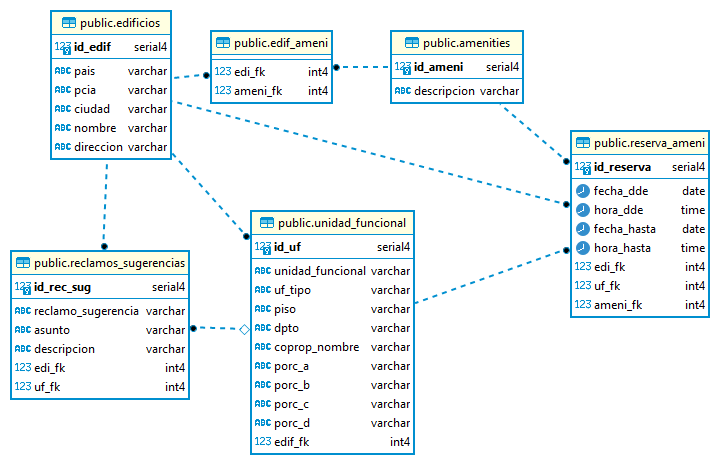
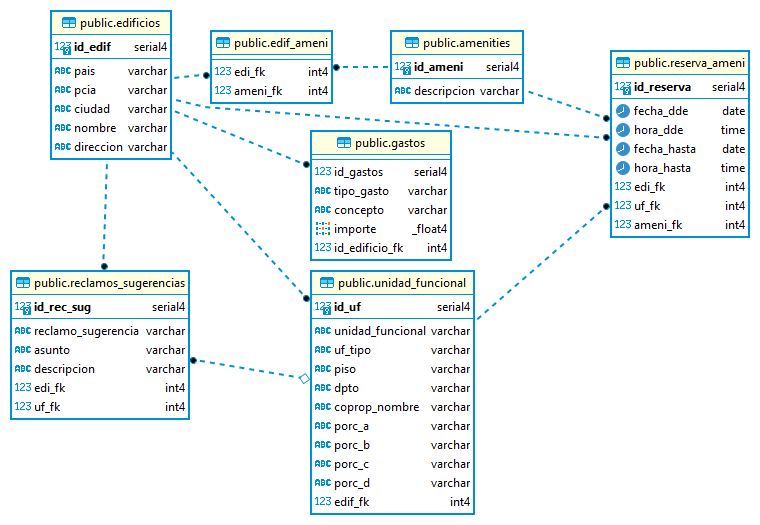
Se Agrego la tabla gastos

diff --git a/Documentos_Develop/DBs/models_tentativo.py b/Documentos_Develop/DBs/models_tentativo.py
@@ -70,3 +70,14 @@ class ReclamosSugerencias(models.Model):
 
     class Meta:
         db_table = "reclamos_sugerencias"
+		
+		
+class Gastos(models.Model):
+    id_gastos = models.AutoField(primary_key=True)
+    tipo_gasto = models.CharField(max_length=50)
+    concepto = models.CharField(max_length=255)
+    importe = models.FloatField()
+    id_edificio_fk = models.ForeignKey(Edificio, on_delete=models.CASCADE, db_column='id_edificio_fk')
+
+    class Meta:
+        db_table = 'gastos'
